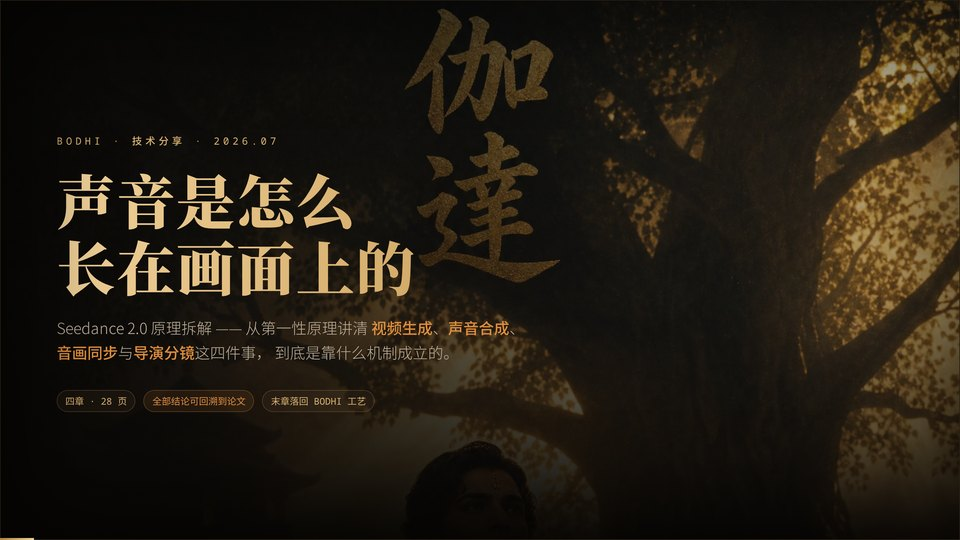
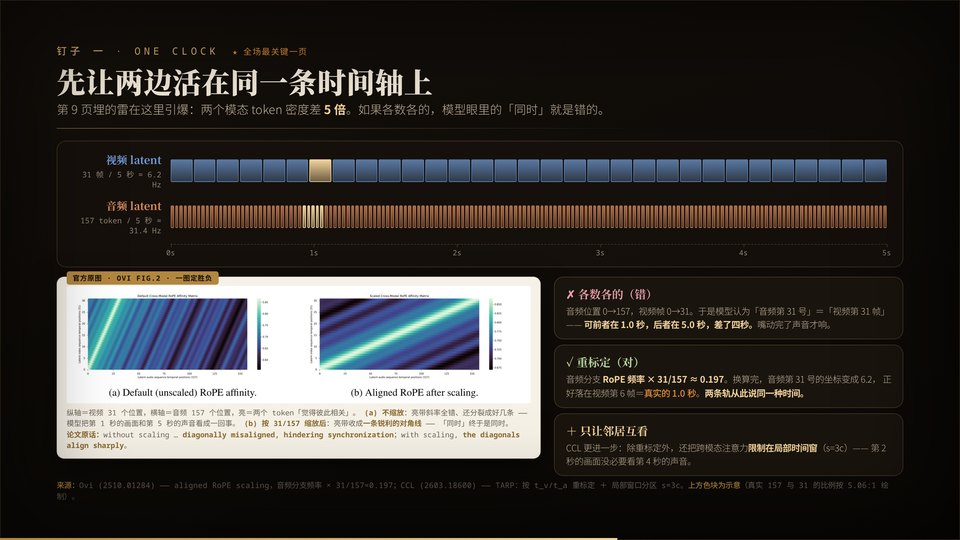
showcase(seedance): 封面换成第 18 页（RoPE 重标定）
原用 E01 恒伽达海报做封面，与姊妹卡「恒伽达 AI 制作复盘」在列表里撞脸，
且会误导成又一份 E01 制作复盘——这份 deck 讲的是模型原理，不是 E01。
换成 deck 招牌页：双轨时间轴 + Ovi RoPE 亲和矩阵，一眼可辨是技术拆解。

diff --git a/showcases.md b/showcases.md
@@ -14,7 +14,7 @@ wide: true
 <ul class="cover-list" role="list">
 
 <li class="cover-row" data-cats="影视 · 导演">
-<a class="cover-media" href="https://ftp.ssbx.site/showcases/bodhi-seedance-principles/"><img src="/marginalia/assets/img/site/covers/bodhi-seedance-principles.jpg" alt="Seedance 2.0 原理拆解 deck 封面截图" loading="lazy"></a>
+<a class="cover-media" href="https://ftp.ssbx.site/showcases/bodhi-seedance-principles/"><img src="/marginalia/assets/img/site/covers/bodhi-seedance-principles.jpg" alt="Seedance 2.0 原理拆解 deck 内页截图：音画同步的时间轴重标定" loading="lazy"></a>
 <div class="cover-body" markdown="1">
 ## 声音是怎么长在画面上的 · Seedance 2.0 原理拆解
 
